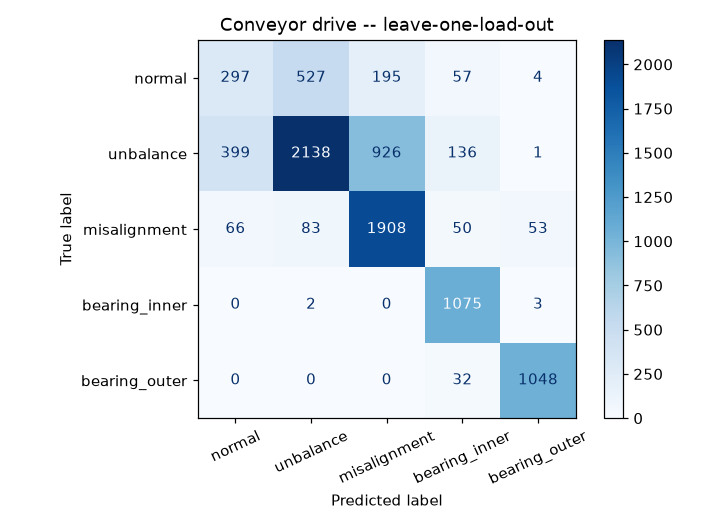
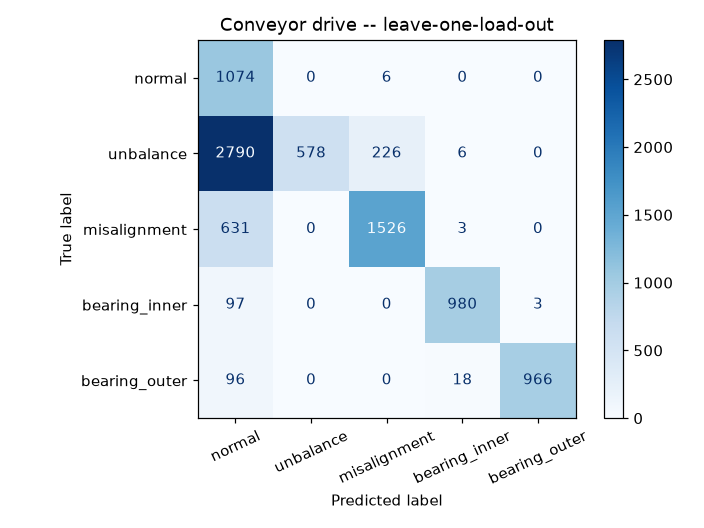
Update trained models and reports [skip ci]

diff --git a/reports/conveyor_results.md b/reports/conveyor_results.md
@@ -13,45 +13,46 @@ their features tracked a 48 vs 49 Hz supply difference between recording session
 faults.
 
 **Leakage guard -- leave-one-load-out:** each load level is scored by a model trained only on
-the other two.
+the other two. The alert threshold was chosen without the held-out load too (nested, on the
+training loads only), targeting at most 20% false alarms on normal running.
 
 | Metric (load never seen in training) | Value |
 |---|---|
 | Fault vs. normal ROC AUC | 0.877 |
-| Fault windows flagged | 96% |
-| False alarms on normal running | 77% |
-| Recordings correctly diagnosed (majority vote) | 37 / 45 |
-| Diagnosis macro F1 (5 classes) | 0.715 |
+| Fault windows flagged | 54% |
+| False alarms on normal running | 1% |
+| Recordings correctly diagnosed (majority vote) | 27 / 45 |
+| Diagnosis macro F1 (5 classes) | 0.662 |
 
 Per class (window accuracy):
 
 | Class | Correct |
 |---|---|
-| normal | 28% |
-| unbalance | 59% |
-| misalignment | 88% |
-| bearing_inner | 100% |
-| bearing_outer | 97% |
+| normal | 99% |
+| unbalance | 16% |
+| misalignment | 71% |
+| bearing_inner | 91% |
+| bearing_outer | 89% |
 
 Flag rate by fault severity -- the honest picture of what it can and can't catch:
 
 | Fault | Severity | Flagged |
 |---|---|---|
-| bearing_inner | 03 | 100% |
-| bearing_inner | 10 | 100% |
-| bearing_inner | 30 | 100% |
-| bearing_outer | 03 | 100% |
-| bearing_outer | 10 | 100% |
-| bearing_outer | 30 | 100% |
-| misalignment | 01 | 91% |
-| misalignment | 03 | 100% |
+| bearing_inner | 03 | 89% |
+| bearing_inner | 10 | 92% |
+| bearing_inner | 30 | 91% |
+| bearing_outer | 03 | 77% |
+| bearing_outer | 10 | 99% |
+| bearing_outer | 30 | 97% |
+| misalignment | 01 | 22% |
+| misalignment | 03 | 91% |
 | misalignment | 05 | 100% |
-| normal | none | 77% |
-| unbalance | 0583mg | 79% |
-| unbalance | 1169mg | 91% |
-| unbalance | 1751mg | 94% |
-| unbalance | 2239mg | 97% |
-| unbalance | 3318mg | 100% |
+| normal | none | 1% |
+| unbalance | 0583mg | 11% |
+| unbalance | 1169mg | 13% |
+| unbalance | 1751mg | 26% |
+| unbalance | 2239mg | 30% |
+| unbalance | 3318mg | 32% |
 
 Physically, small unbalance barely changes vibration (1x amplitude only rises clearly from
 ~2.2 g of added mass up), so light unbalance is expected to be missed.
